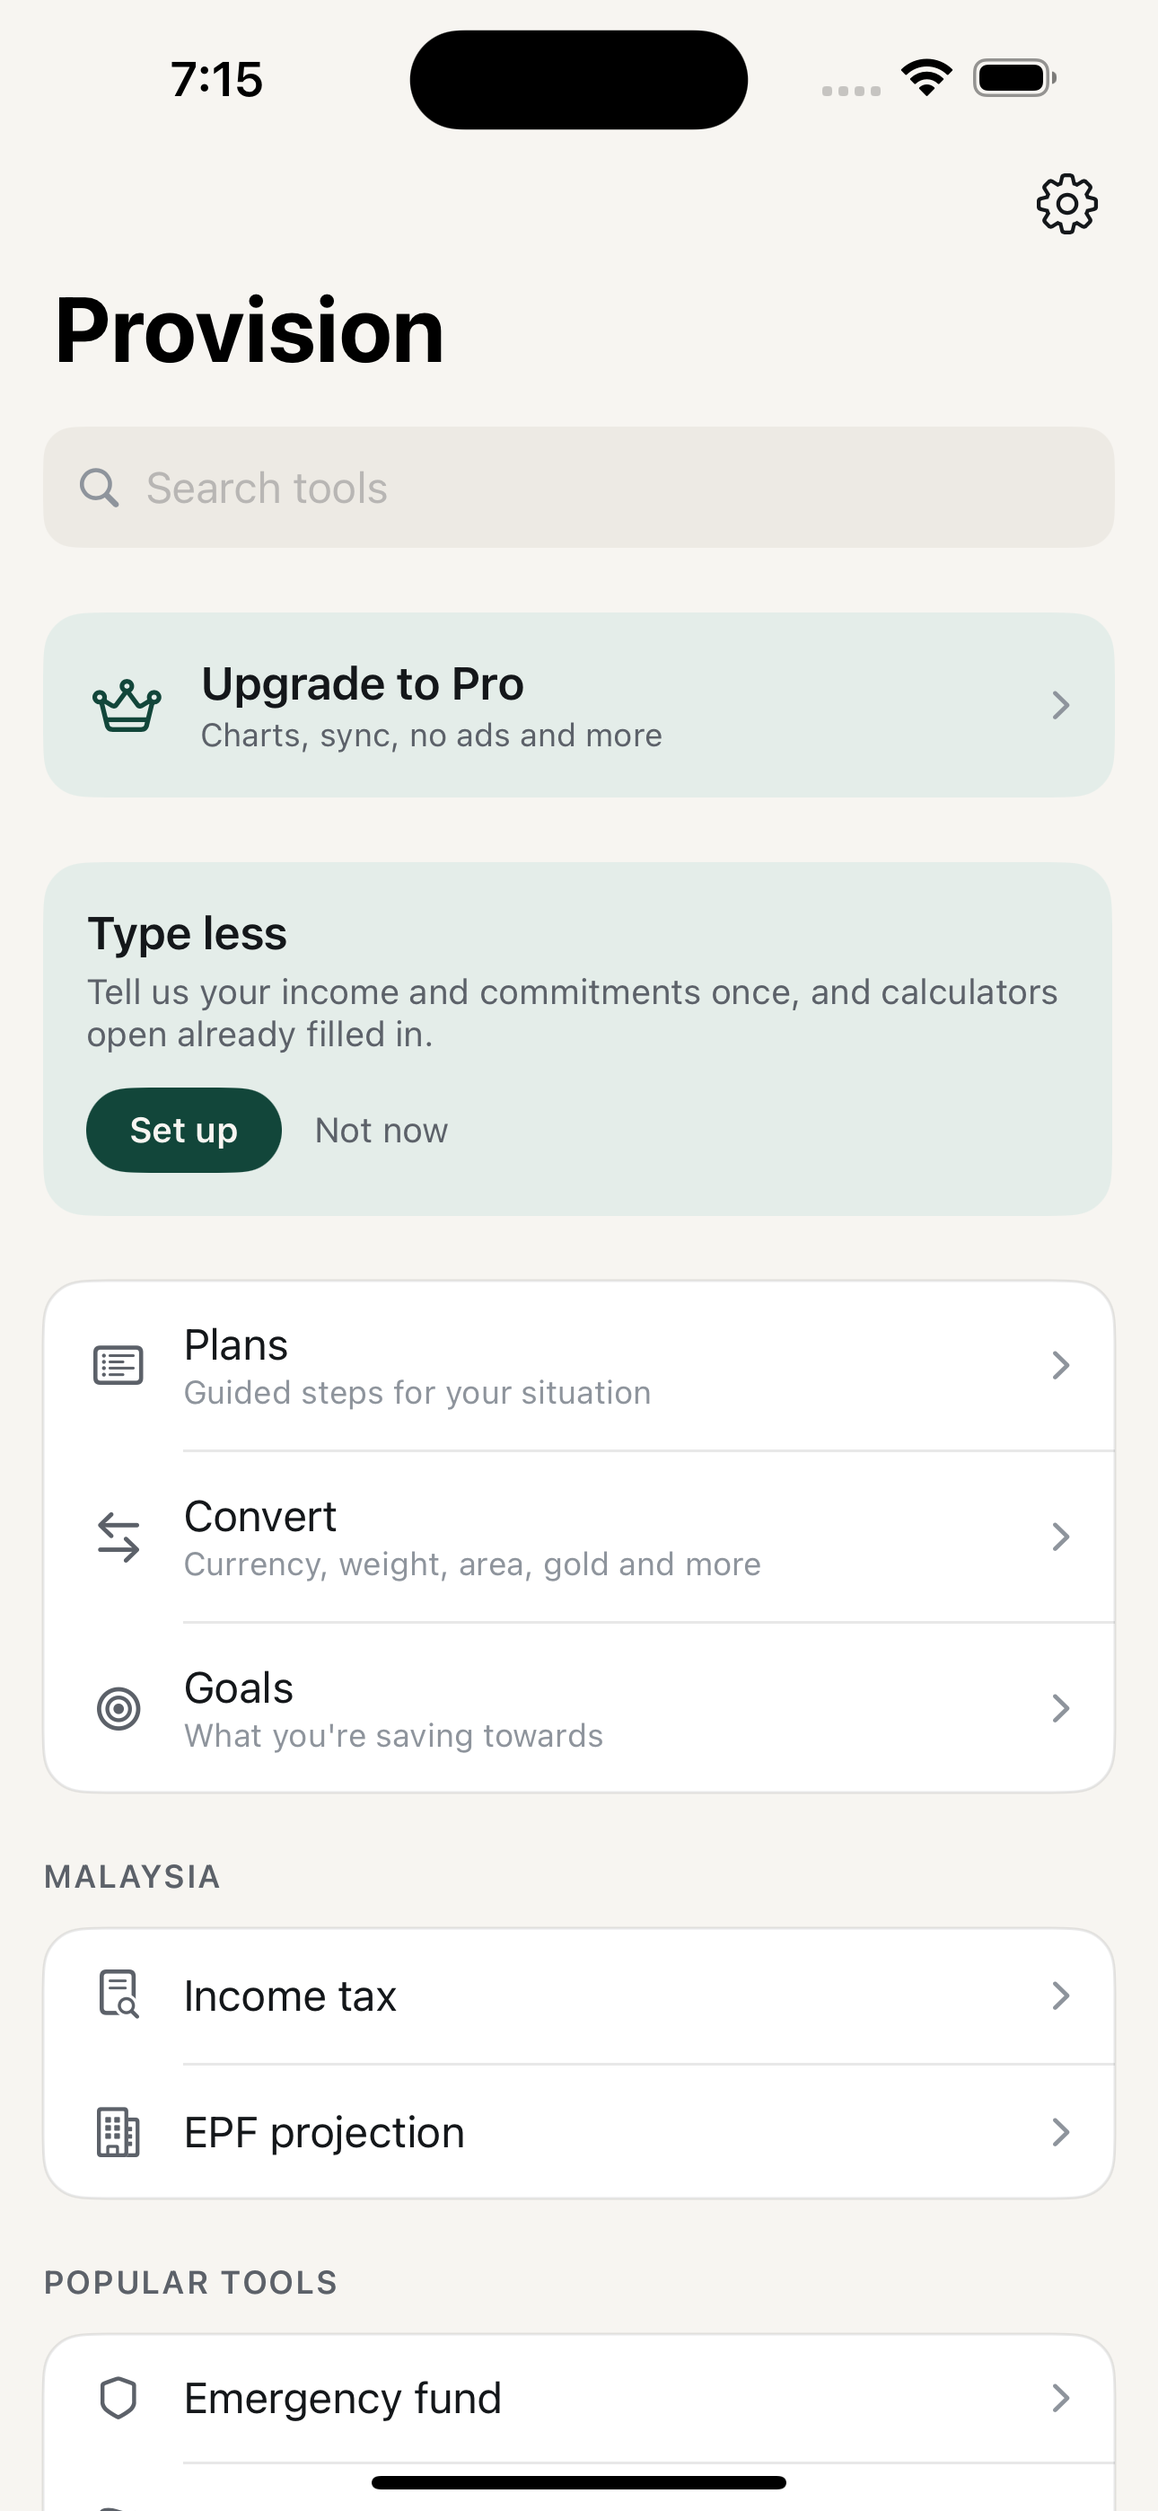
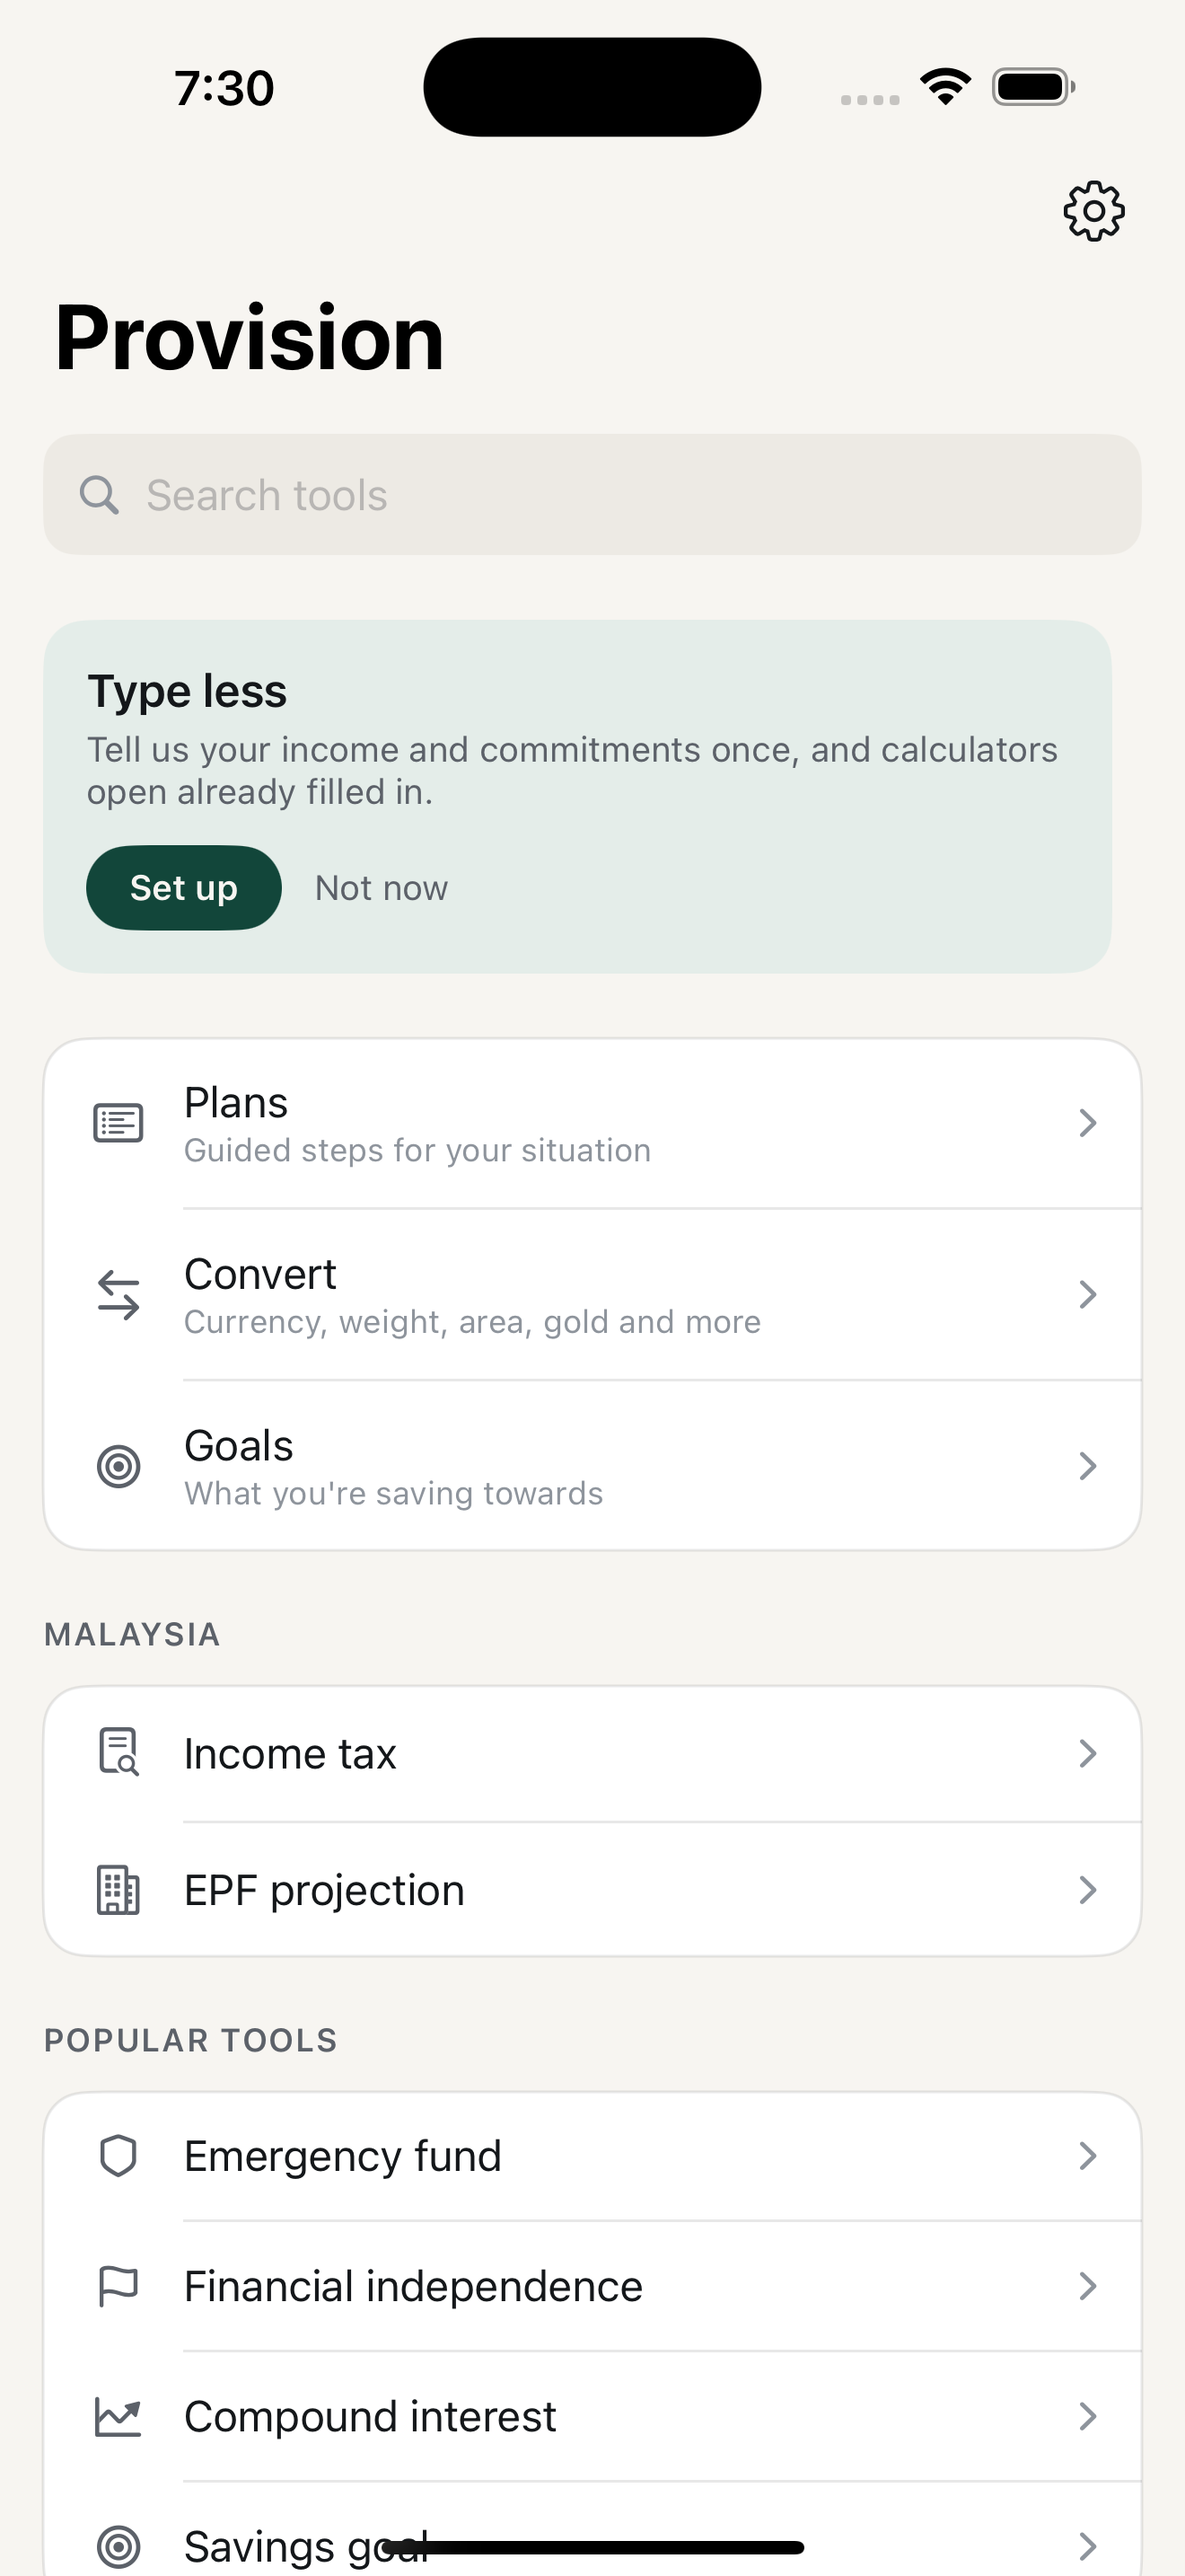
Update to 6.9" iPhone 16 Pro Max screenshots with Pro features
Replace 6.7" screenshots with 1320×2868 versions captured on iPhone 16
Pro Max simulator. New shots showcase Pro-only charts (compound interest
growth chart, EPF 25-year projection), Goals with live progress bars, and
clean ad-free UI throughout.

diff --git a/index.html b/index.html
@@ -403,18 +403,18 @@
 <div class="mockup-strip">
   <div class="mockup-track">
     <div class="phone-frame"><img src="screenshots/02-home.png" alt="Home screen" loading="lazy" /></div>
-    <div class="phone-frame"><img src="screenshots/03-calculate.png" alt="Calculator screen" loading="lazy" /></div>
-    <div class="phone-frame"><img src="screenshots/04-plans.png" alt="Plans screen" loading="lazy" /></div>
-    <div class="phone-frame"><img src="screenshots/05-convert.png" alt="Convert screen" loading="lazy" /></div>
-    <div class="phone-frame"><img src="screenshots/07-settings.png" alt="Settings screen" loading="lazy" /></div>
-    <div class="phone-frame"><img src="screenshots/01-onboarding.png" alt="Onboarding screen" loading="lazy" /></div>
+    <div class="phone-frame"><img src="screenshots/03-result-chart.png" alt="Compound interest chart" loading="lazy" /></div>
+    <div class="phone-frame"><img src="screenshots/04-goals.png" alt="Goals screen" loading="lazy" /></div>
+    <div class="phone-frame"><img src="screenshots/05-plans.png" alt="Plans screen" loading="lazy" /></div>
+    <div class="phone-frame"><img src="screenshots/06-convert.png" alt="Convert screen" loading="lazy" /></div>
+    <div class="phone-frame"><img src="screenshots/07-epf-projection.png" alt="EPF projection" loading="lazy" /></div>
     <!-- duplicate for seamless loop -->
     <div class="phone-frame"><img src="screenshots/02-home.png" alt="Home screen" loading="lazy" /></div>
-    <div class="phone-frame"><img src="screenshots/03-calculate.png" alt="Calculator screen" loading="lazy" /></div>
-    <div class="phone-frame"><img src="screenshots/04-plans.png" alt="Plans screen" loading="lazy" /></div>
-    <div class="phone-frame"><img src="screenshots/05-convert.png" alt="Convert screen" loading="lazy" /></div>
-    <div class="phone-frame"><img src="screenshots/07-settings.png" alt="Settings screen" loading="lazy" /></div>
-    <div class="phone-frame"><img src="screenshots/01-onboarding.png" alt="Onboarding screen" loading="lazy" /></div>
+    <div class="phone-frame"><img src="screenshots/03-result-chart.png" alt="Compound interest chart" loading="lazy" /></div>
+    <div class="phone-frame"><img src="screenshots/04-goals.png" alt="Goals screen" loading="lazy" /></div>
+    <div class="phone-frame"><img src="screenshots/05-plans.png" alt="Plans screen" loading="lazy" /></div>
+    <div class="phone-frame"><img src="screenshots/06-convert.png" alt="Convert screen" loading="lazy" /></div>
+    <div class="phone-frame"><img src="screenshots/07-epf-projection.png" alt="EPF projection" loading="lazy" /></div>
   </div>
 </div>
 
@@ -465,7 +465,7 @@
       </div>
     </div>
     <div class="feature-screen">
-      <img src="screenshots/04-plans.png" alt="Plans screen showing life situations" loading="lazy" />
+      <img src="screenshots/05-plans.png" alt="Plans screen showing life situations" loading="lazy" />
     </div>
   </div>
 
